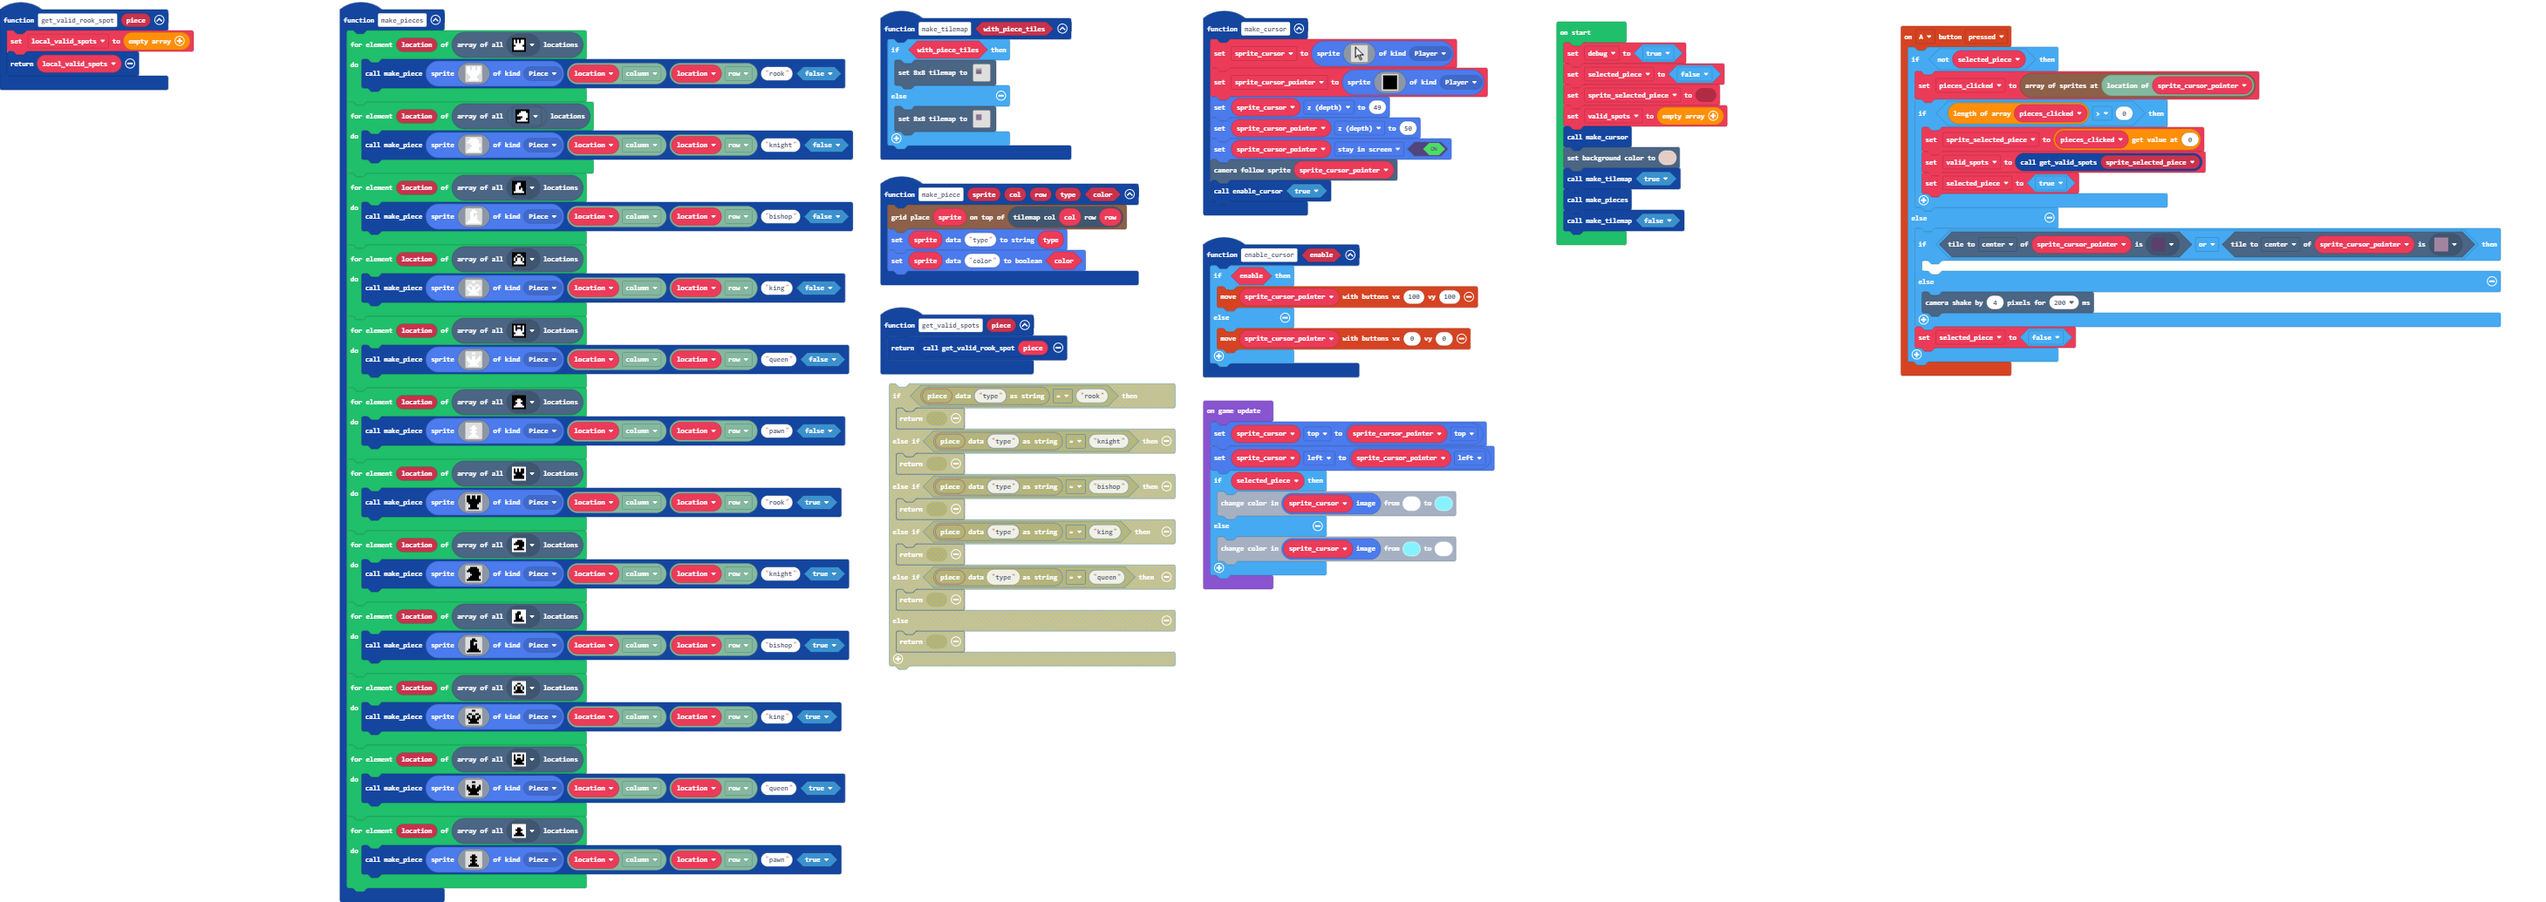
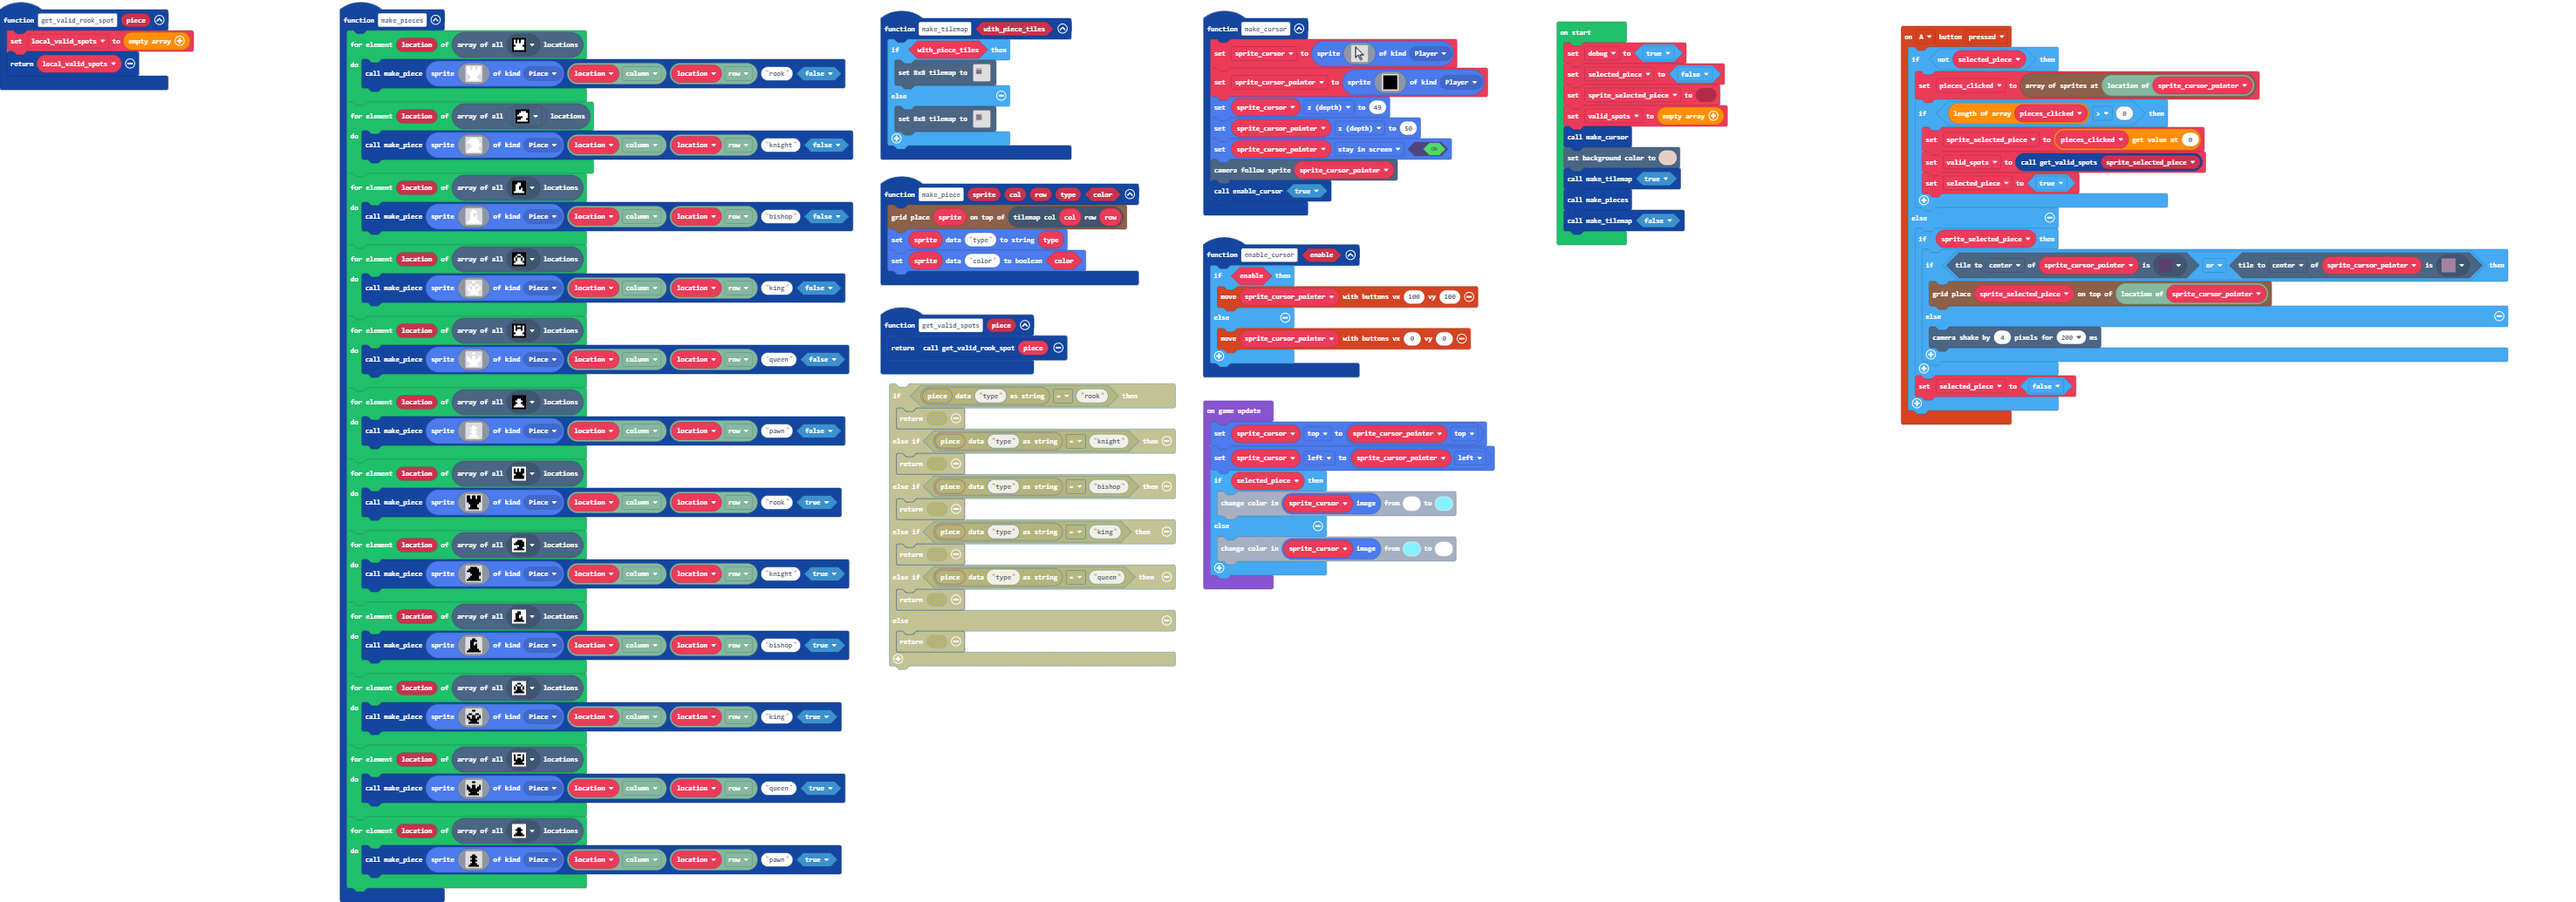
Make rudimentary placing

diff --git a/main.ts b/main.ts
@@ -51,10 +51,12 @@ controller.A.onEvent(ControllerButtonEvent.Pressed, function () {
             selected_piece = true
         }
     } else {
-        if (sprite_cursor_pointer.tileKindAt(TileDirection.Center, assets.tile`dark_tile`) || sprite_cursor_pointer.tileKindAt(TileDirection.Center, assets.tile`light_tile`)) {
-        	
-        } else {
-            scene.cameraShake(4, 200)
+        if (sprite_selected_piece) {
+            if (sprite_cursor_pointer.tileKindAt(TileDirection.Center, assets.tile`dark_tile`) || sprite_cursor_pointer.tileKindAt(TileDirection.Center, assets.tile`light_tile`)) {
+                grid.place(sprite_selected_piece, tiles.locationOfSprite(sprite_cursor_pointer))
+            } else {
+                scene.cameraShake(4, 200)
+            }
         }
         selected_piece = false
     }
